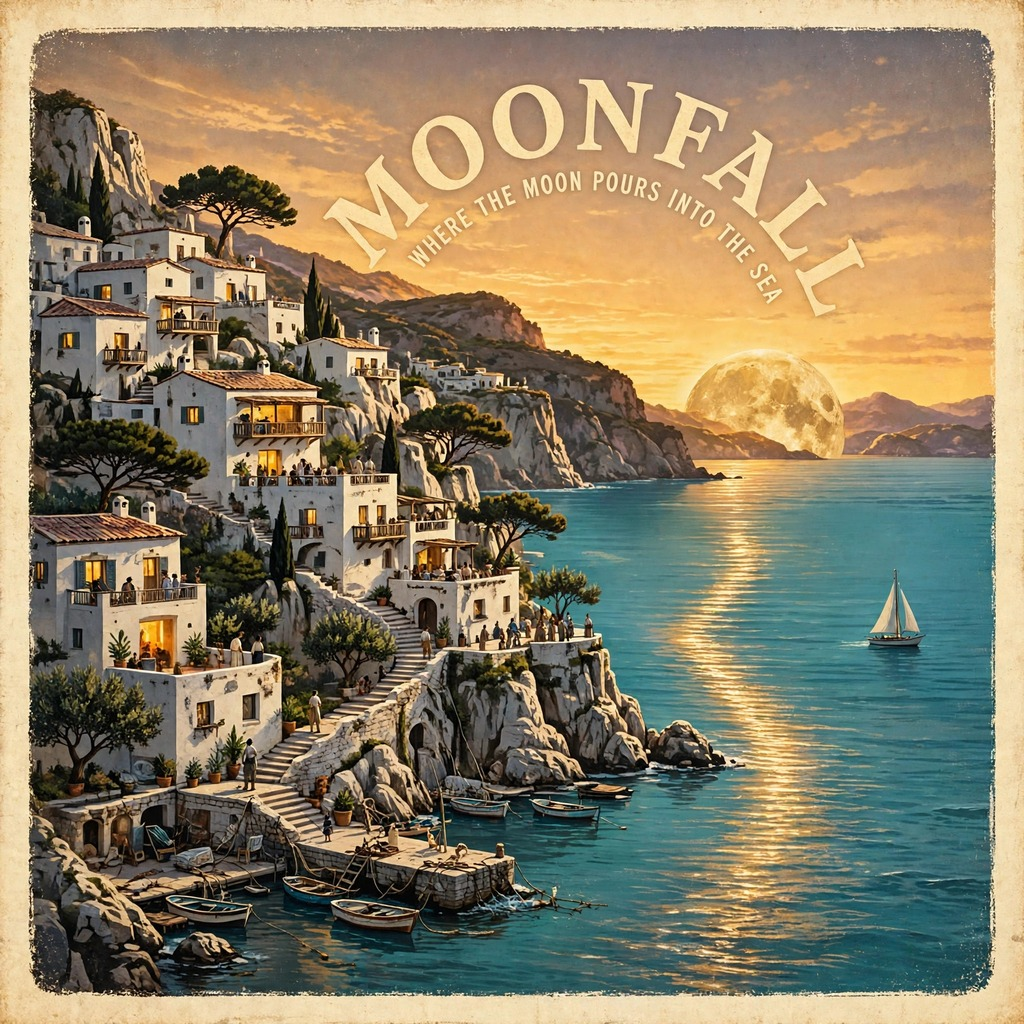
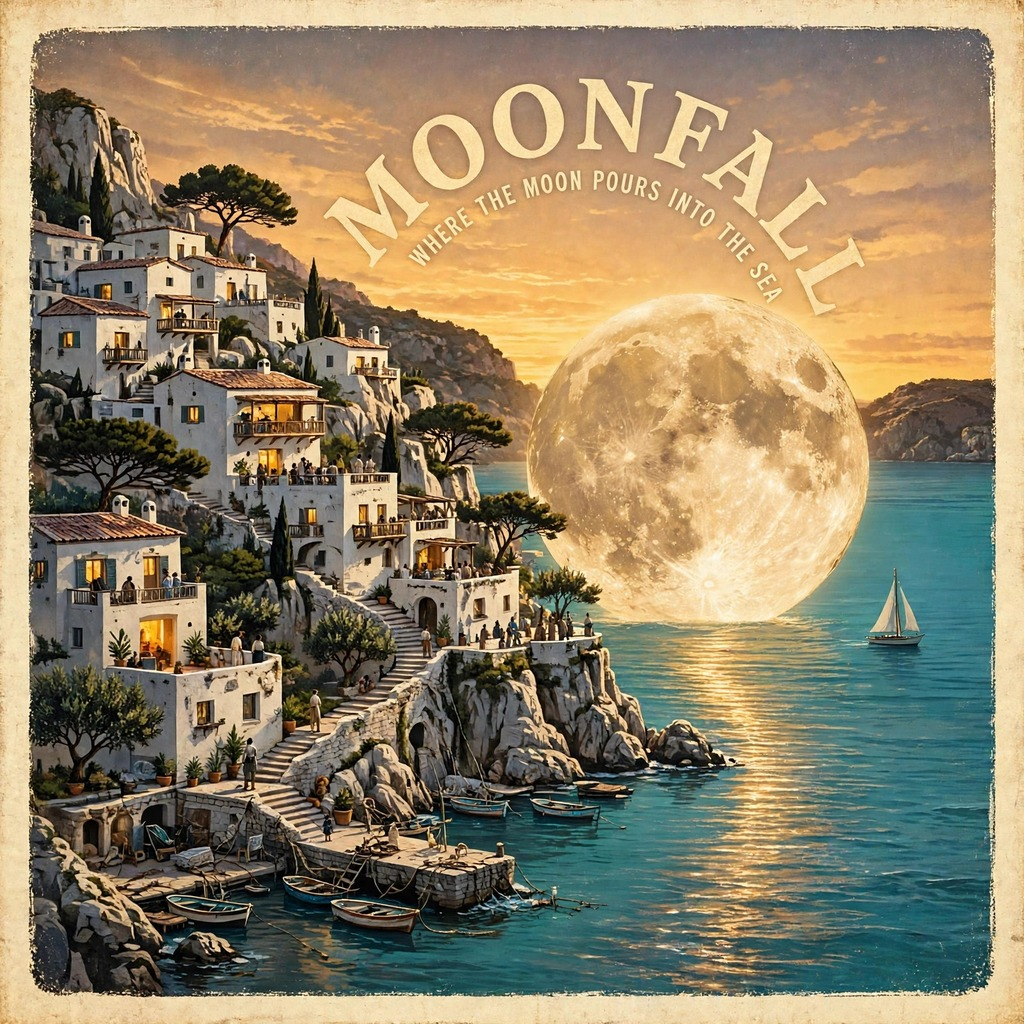
MOONFALL v11 - big moon below text, in front of empty hill (copy-only stdlib entrypoint)

diff --git a/main.py b/main.py
@@ -1,10 +1,10 @@
 """MOONFALL - The Poster for a Place That Isn't There.
 
 Copy-only entrypoint, standard library only. The finished poster
-(entry.png) ships in this repo; the program removes stale files from
+(entry.png) ships in this repo; the program clears stale files from
 the output directory, copies entry.png to
-$MAKEFUN_OUTPUT_DIR/entry.png (default /output), then checks the
-copy is byte-identical to the source and is a real JPEG. No
+$MAKEFUN_OUTPUT_DIR/entry.png (default /output), then proves the
+copy is byte-identical to the source and is a genuine JPEG. No
 generation, no network, no randomness, no timestamps.
 """
 
@@ -14,14 +14,14 @@ import shutil
 import sys
 from pathlib import Path
 
-HERE = Path(__file__).resolve().parent
-POSTER = HERE / "entry.png"
-OUT = Path(os.environ.get("MAKEFUN_OUTPUT_DIR", "/output"))
-TARGET = OUT / "entry.png"
+BASE = Path(__file__).resolve().parent
+POSTER = BASE / "entry.png"
+OUTDIR = Path(os.environ.get("MAKEFUN_OUTPUT_DIR", "/output"))
+DEST = OUTDIR / "entry.png"
 LIMIT = 1_048_576
 
 
-def digest_of(path: Path) -> str:
+def hash_of(path: Path) -> str:
     digest = hashlib.sha256()
     with path.open("rb") as handle:
         for chunk in iter(lambda: handle.read(1 << 20), b""):
@@ -43,16 +43,16 @@ def main() -> int:
     if len(image) > LIMIT:
         print(f"error: poster image over the 1 MiB limit: {len(image)} bytes", file=sys.stderr)
         return 1
-    if OUT.exists() and not OUT.is_dir():
-        print(f"error: output path is not a directory: {OUT}", file=sys.stderr)
+    if OUTDIR.exists() and not OUTDIR.is_dir():
+        print(f"error: output path is not a directory: {OUTDIR}", file=sys.stderr)
         return 1
-    OUT.mkdir(parents=True, exist_ok=True)
-    for stale in OUT.iterdir():
-        if stale.is_file() and stale != TARGET:
+    OUTDIR.mkdir(parents=True, exist_ok=True)
+    for stale in OUTDIR.iterdir():
+        if stale.is_file() and stale != DEST:
             stale.unlink()
-    shutil.copyfile(POSTER, TARGET)
+    shutil.copyfile(POSTER, DEST)
     want = hashlib.sha256(image).hexdigest()
-    got = digest_of(TARGET)
+    got = hash_of(DEST)
     if got != want:
         print("error: copy differs from source", file=sys.stderr)
         return 1

diff --git a/README.md b/README.md
@@ -8,9 +8,9 @@ The travel poster of MOONFALL — a place that isn't there. A
 whitewashed cliff village climbs terraced hills from the left edge
 all the way to the middle of the image — lit windows, balconies,
 stairways, pine trees, people on the terraces, and a small harbour
-with boats below. Behind the village hills, as the background, a
-giant moon has fallen low, its lower half sinking into the turquoise
-sea on the right. The name MOONFALL arches huge across the sky in
+with boats below. In front of the bare empty hill on the right, a
+giant moon sits right below the name, its lower edge touching the
+turquoise sea. The name MOONFALL arches huge across the sky in
 cream serif, with the tagline curved beneath it. A single sailboat
 drifts on the calm water, and a path of golden light leads across
 the bay toward the moon and the horizon. Warm sunset gold, teal
@@ -25,12 +25,12 @@ mkdir -p out && MAKEFUN_OUTPUT_DIR=out python3 main.py
 
 `main.py` (Python 3.13, stdlib only) copies the finished 1024x1024
 poster `entry.png` to `/output/entry.png` — the poster shows the
-white cliff village reaching the middle of the image, the fallen
-moon behind its hills sinking into the sea, the name MOONFALL
-arched huge across the sky, and one sailboat on the water, framed
-in cream like a vintage poster, with the tagline "WHERE THE MOON
-POURS INTO THE SEA" beneath the name. No generation, no network, no
-randomness: two runs produce the same bytes.
+white cliff village reaching the middle of the image, the giant
+moon right below the name in front of the empty hill, and one
+sailboat on the water, framed in cream like a vintage poster, with
+the tagline "WHERE THE MOON POURS INTO THE SEA" beneath the name.
+No generation, no network, no randomness: two runs produce the same
+bytes.
 
 ---
 
